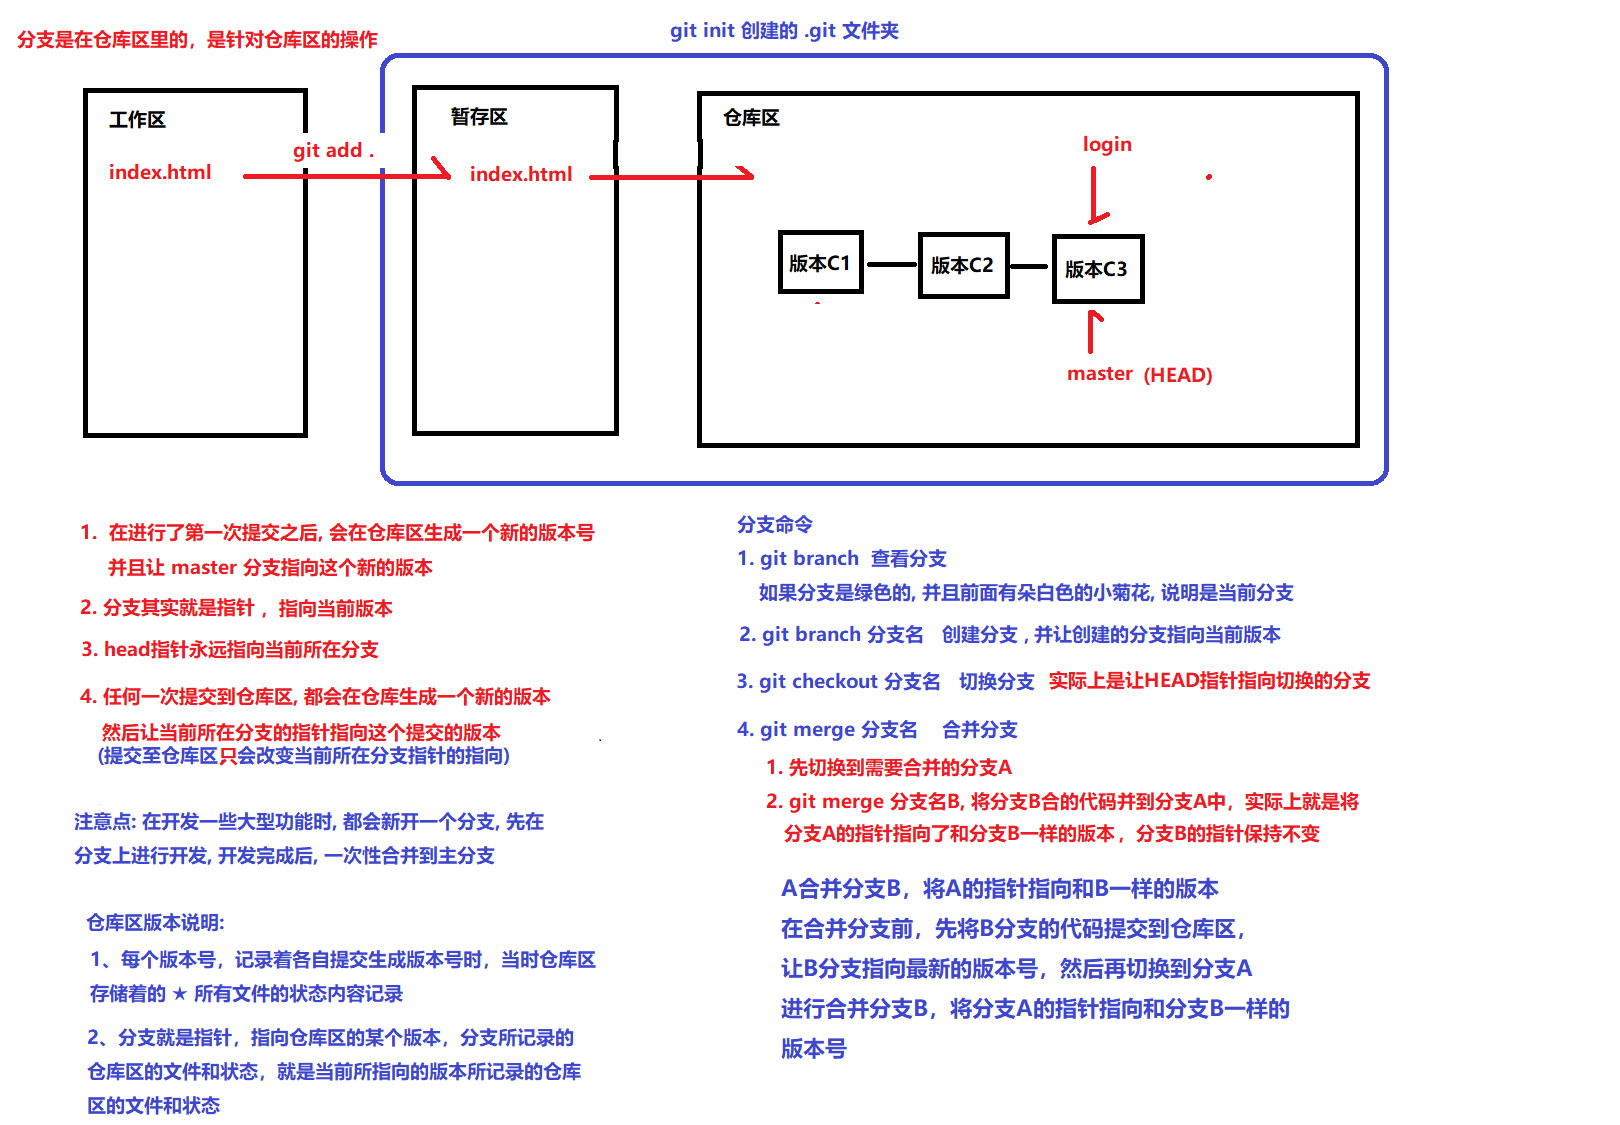
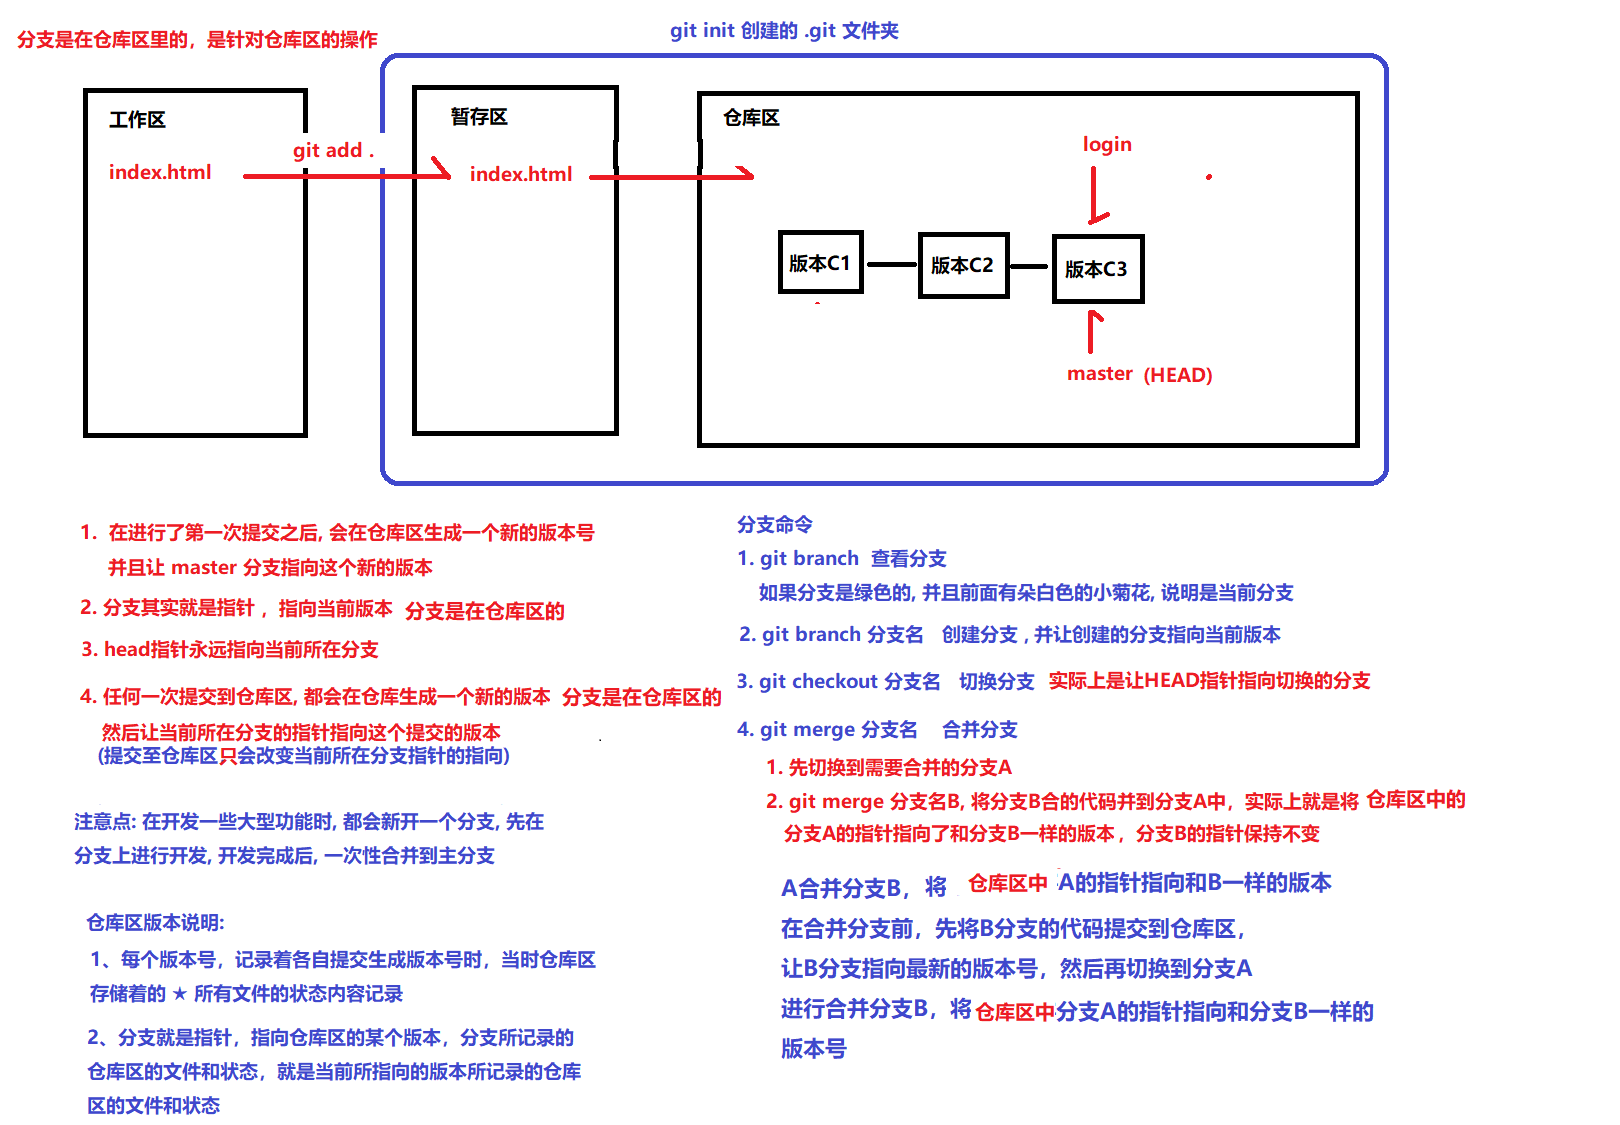
0313-02

diff --git a/03-JavaScript高级/day03/04-上课代码/07-js是单线程和js的事件轮询机制.html b/03-JavaScript高级/day03/04-上课代码/07-js是单线程和js的事件轮询机制.html
@@ -15,7 +15,7 @@
 //  栈: 用于存储基本数据类型, 存储变量, 所有的代码都会进入到栈里面执行.引用数据类型的地址是16进制的数字,所以也存储在栈中  栈是有大小限制的
 //  栈存储数据是有大小限制的 而基本数据类型也是有大小限制的 所以存在栈里
 //  堆: 用于存储引用数据类型 堆存储数据没用大小限制 而引用数据类型也不知道最大是多少 所以存在堆里
-//  JS声明的变量函数等数据, 以及后续对变量等数据进行赋值或其他操作, 数据会一直存储在浏览器内存中, 存储在栈或者堆中 保持数据 出栈后也会存储在内存中, 保持数据 只有在每次刷新页面, 或重新请求该页面, 内存重新加载时, 数据才会丢失, js重新执行, 才会重新加载 也就是重置变量, 重置数据
+//  JS声明的变量和函数等数据, 以及后续对变量等数据进行赋值或其他操作, 数据会一直存储在浏览器内存中, 存储在栈或者堆中 保持数据 出栈后也会存储在内存中, 保持数据 只有在每次刷新页面, 或重新请求该页面, 内存重新加载时, 数据才会丢失, js重新执行, 才会重新加载 也就是重置变量, 重置数据
 //  ★★★ 每次请求一个页面, 或页面跳转, 地址栏跳转等, 内存都会清空, 都会加载/重新加载请求的这个页面, 即重新解析渲染这个页面的html, css, 以及重新执行这个页面的js代码
 
 //
@@ -28,9 +28,10 @@
   // 浏览器对页面的解析和执行的顺序是从上往下解析和执行的, 包括html, css, js等其他.
   // 1. dom树,规则树,以及渲染树,都是加载存储在内存中的
   // 2. js对dom树, css规则树以及渲染树的操作,比如改变dom树htm结构,或者改变dom树上dom元素(标签节点)的样式或html结构等所其他操作都会保存在内存中, 除非页面重新加载(刷新页面或跳转页面)
-  // 3. js中声明的变量，函数,以及其他所有数据,都是存储在内存中的，对数据的操作,比如赋值等所有其他操
+  // 3、js中所有声明的数据(变量, 5基本, 3复杂等所有数据), 都可以一次声明, 多次使用的
+  // 4. js中声明的变量，函数,以及其他所有数据,都是存储在内存中的，对数据的操作,比如赋值等所有其他操
   // 作，都会保存在内存中,除页面重新加载(刷新页面或跳转页面)
-  // 4、js中,所有访问/使用/操作/获取性等所有操作,获取的都是访问/使用/操作/获取当前执行获取性操作这段代码时，内存中此刻保存的对应的要获取的那个数据的值
+  // 5、js中,所有访问/使用/操作/获取性等所有操作,获取的都是访问/使用/操作/获取当前执行获取性操作这段代码时，内存中此刻保存的对应的要获取的那个数据的值
   //
   // js中，改改在dom树上的标签节点，即改变在dom树上dom元素的样式渲染模式,及html结构或其他所有等,只要影响页面的布局排列渲染或元素(标签)的渲染，都会触发对应的回流和重绘
   // 对于隐藏的元素display: none,不会被渲染到页面上,所以修改隐藏的元素,不会触发重绘和回流，除非隐藏的元素显示了,就会触发重绘和回流

diff --git a/06-Ajax/day03/04-demo/03-模板引擎初体验.html b/06-Ajax/day03/04-demo/03-模板引擎初体验.html
@@ -26,7 +26,7 @@
   <!-- 可以先写模板, 再引包, 没有顺序要求 -->
   <!-- 模板不会被当成js, 浏览器不会解析和执行模板 -->
   <!-- 浏览器也不会将模板的内容渲染到页面上 -->
-  <!-- 模板中的写法和html标签类似, 在模板中, 只有{{}}里的内容最后会被 解析 和 执行, {{}}外的内容, 最后会被原文输出到模板返回的字符串中 -->
+  <!-- 模板中的写法和html标签类似, 在模板中, 只有{{}}里的内容最后会被 解析 和 执行, {{}}外的内容, 最后都会被原文输出到模板返回的html字符串中 -->
   <!-- 在模板中{{}}里, {{}}里的内容会被解析和执行, 并将{{}}里解析执行的最终结果输出到模板返回的字符串中:
         包含以下1>, 2>, 3>, 4>, 5>
         1> 在模板中的任意地方, 只要在{{}}内就可以直接通过数据对象中的属性名访问数据对象中的属性值, 还可以同时写其他内容, 比如js基本语法 {{ name + '你好' }}
@@ -70,7 +70,7 @@
     //          但是对象的属性没有要求, 可以是任意类型
     //          如果数据是数组, 可以将数组包装到数据对象的一个属性中去, 这样在模板中也能获取和使用数组
     //    ★ template方法做了什么?
-    //        执行template方法, 会对模板进行解析, 只要是{{}}里的内容(双括号在双引号里, 也会被解析和执行), 就会被解析和执行, {{}}外的内容, 则原文输出到返回的字符串中, 包括单引号, 双引号, 都会原文输出
+    //        执行template方法, 会对模板进行解析, 只要是{{}}里的内容(双括号在双引号里, {{}}也会被解析和执行), 就会被解析和执行, {{}}外的内容, 则原文输出到返回的字符串中, 包括单引号, 双引号, 都会原文输出
     //        ★ 最后返回一个的 html 字符串
 
     //    ps: 模板和数据相结合, 一个模板可以被template调用多次, 每次根据传入的数据对象进行解析, 最后返回一个html字符串

diff --git a/01-JavaScript基础/day01/02-代码/day01-code/01.js.html b/01-JavaScript基础/day01/02-代码/day01-code/01.js.html
@@ -24,9 +24,8 @@ js中, 后面只要没有说是异步的, 则都是同步执行的, 即要等到
     浏览器对页面的解析和执行的顺序是从上往下解析和执行的, 包括html, css, js等其他.
 1. dom树,规则树,以及渲染树,都是加载存储在内存中的
 2. js对dom树, css规则树以及渲染树的操作,比如改变dom树htm结构,或者改变dom树上dom元素(标签节点)的样式或html结构等所其他操作都会保存在内存中, 除非页面重新加载(刷新页面或跳转页面)
-3. js中声明的变量，函数,以及其他所有数据,都是存储在内存中的，对数据的操作,比如赋值等所有其他操
-作，都会保存在内存中,除页面重新加载(刷新页面或跳转页面)
-4、js中,所有访问/使用/操作/获取性等所有操作,获取的都是访问/使用/操作/获取当前执行获取性操作这段代码时，内存中此刻保存的对应的要获取的那个数据的值
-
+3、js中所有声明的数据(变量, 5基本, 3复杂等所有数据), 都可以一次声明, 多次使用的
+4. js中声明的变量，函数,以及其他所有数据,都是存储在内存中的，对数据的操作,比如赋值等所有其他操作，都会保存在内存中,除页面重新加载(刷新页面或跳转页面)
+5、js中,所有访问/使用/操作/获取性等所有操作,获取的都是访问/使用/操作/获取当前执行获取性操作这段代码时，内存中此刻保存的对应的要获取的那个数据的值
 js中，改改在dom树上的标签节点，即改变在dom树上dom元素的样式渲染模式,及html结构或其他所有等,只要影响页面的布局排列渲染或元素(标签)的渲染，都会触发对应的回流和重绘
 对于隐藏的元素display: none,不会被渲染到页面上,所以修改隐藏的元素,不会触发重绘和回流，除非隐藏的元素显示了,就会触发重绘和回流

diff --git a/02-WebAPIs编程/补充-重绘回流-面试题.html b/02-WebAPIs编程/补充-重绘回流-面试题.html
@@ -108,9 +108,10 @@
 		// 浏览器对页面的解析和执行的顺序是从上往下解析和执行的, 包括html, css, js等其他
 		// 1. dom树,规则树,以及渲染树,都是加载存储在内存中的
 		// 2. js对dom树, css规则树以及渲染树的操作,比如改变dom树htm结构,或者改变dom树上dom元素(标签节点)的样式或html结构等所其他操作都会保存在内存中, 除非页面重新加载(刷新页面或跳转页面)
-		// 3. js中声明的变量，函数,以及其他所有数据,都是存储在内存中的，对数据的操作,比如赋值等所有其他操
+		// 3、js中所有声明的数据(变量, 5基本, 3复杂等所有数据), 都可以一次声明, 多次使用的
+		// 4. js中声明的变量，函数,以及其他所有数据,都是存储在内存中的，对数据的操作,比如赋值等所有其他操
 		// 作，都会保存在内存中,除页面重新加载(刷新页面或跳转页面)
-		// 4、js中,所有访问/使用/操作/获取性等所有操作,获取的都是访问/使用/操作/获取当前执行获取性操作这段代码时，内存中此刻保存的对应的要获取的那个数据的值
+		// 5、js中,所有访问/使用/操作/获取性等所有操作,获取的都是访问/使用/操作/获取当前执行获取性操作这段代码时，内存中此刻保存的对应的要获取的那个数据的值
 		//
 		// js中，改改在dom树上的标签节点，即改变在dom树上dom元素的样式渲染模式,及html结构或其他所有等,只要影响页面的布局排列渲染或元素(标签)的渲染，都会触发对应的回流和重绘
 		// 对于隐藏的元素display: none,不会被渲染到页面上,所以修改隐藏的元素,不会触发重绘和回流，除非隐藏的元素显示了,就会触发重绘和回流

diff --git a/02-WebAPIs编程/day03/04-上课代码/03-DOM树.html b/02-WebAPIs编程/day03/04-上课代码/03-DOM树.html
@@ -39,9 +39,10 @@
 // 浏览器对页面的解析和执行的顺序是从上往下解析和执行的, 包括html, css, js等其他.
 // 1. dom树,规则树,以及渲染树,都是加载存储在内存中的
 // 2. js对dom树, css规则树以及渲染树的操作,比如改变dom树htm结构,或者改变dom树上dom元素(标签节点)的样式或html结构等所其他操作都会保存在内存中, 除非页面重新加载(刷新页面或跳转页面)
-// 3. js中声明的变量，函数,以及其他所有数据,都是存储在内存中的，对数据的操作,比如赋值等所有其他操
+// 3、js中所有声明的数据(变量, 5基本, 3复杂等所有数据), 都可以一次声明, 多次使用的
+// 4. js中声明的变量，函数,以及其他所有数据,都是存储在内存中的，对数据的操作,比如赋值等所有其他操
 // 作，都会保存在内存中,除页面重新加载(刷新页面或跳转页面)
-// 4、js中,所有访问/使用/操作/获取性等所有操作,获取的都是访问/使用/操作/获取当前执行获取性操作这段代码时，内存中此刻保存的对应的要获取的那个数据的值
+// 5、js中,所有访问/使用/操作/获取性等所有操作,获取的都是访问/使用/操作/获取当前执行获取性操作这段代码时，内存中此刻保存的对应的要获取的那个数据的值
 //
 // js中，改改在dom树上的标签节点，即改变在dom树上dom元素的样式渲染模式,及html结构或其他所有等,只要影响页面的布局排列渲染或元素(标签)的渲染，都会触发对应的回流和重绘
 // 对于隐藏的元素display: none,不会被渲染到页面上,所以修改隐藏的元素,不会触发重绘和回流，除非隐藏的元素显示了,就会触发重绘和回流

diff --git a/02-WebAPIs编程/day01/04-上课代码/03-事件.html b/02-WebAPIs编程/day01/04-上课代码/03-事件.html
@@ -39,7 +39,7 @@
 //    注意: 事件处理函数,相当于函数的声明,JS遇到时不会解析和执行里面的函数体中的代码,而是直接跳过,等到事件被触发的时候,才会调用函数,才会去具体解析和执行函数体,函数体中各个变量的值以解析函数体的时候为准,即以事件触发时/函数调用时/执行函数体时 为准
 //    注意: 伪数组不能注册事件,元素才可以注册事件,需要把伪数组中的元素 一个个拿出来 才可以注册事件
 //    注意: 事件处理函数中的this: this是一个元素, dom元素,解析this: 当前执行的事件处理函数是哪个元素注册的,this就是这个元素;若多个元素注册同一个事件处理函数,可以使用this将他们区分开来
-//    注意: 所以如果多个元素绑定同一个事件处理函数,在执行事件处理函数的时候,this代表的是当前触发事件的那个元素,即每个元素执行事件函数时的this都是不同的,这样可以将每个元素给区分开来.
+//    注意: 所以如果多个元素绑定同一个事件处理函数,在调用执行事件处理函数的时候, 解析和执行的时候, this会被解析成注册 (当前执行的事件处理函数)的那个dom元素,即每个元素执行事件函数时的this都是不同的,这样可以将每个元素给区分开来.
 //    注意: 1个元素可以同时注册多种类型的事件 : 事件名相同,就是同类型事件; 事件名不同,就是不同类型事件
 //    注意: 一个事件可以被触发多次, 每次触发都会调用执行事件处理函数,执行事件处理函数的函数体,拿到的数据都是最新的
 

diff --git a/01-JavaScript基础/day01/02-代码/day01-code/18-一元运算符.html b/01-JavaScript基础/day01/02-代码/day01-code/18-一元运算符.html
@@ -10,41 +10,42 @@
     <script>
 
       // 一元运算符  一个操作数的运算符
-      // 自增 + 自减  
+      // 自增 + 自减
       // ++
       // 自增 :
       // num++;
       // ++num;
       // 异同
-      // 相同点 : 执行完代码,数字都会 + 1 
+      // 相同点 : 执行完代码,数字都会 + 1
       // 不同点 : 正在执行代码的时候,使用了,就会有差别
       // num++ : 先用,再加1
       // ++num : 先加1, 再使用
-      
+
       // 不同点 : 正在执行代码的时候,使用了,就会有差别
+      // 只是在一条语句里使用时有差别, 一元运算符也是同步执行的
       var num = 10;
       console.log( num++ ); //10, 先用,再加1 => 打印10 执行完之后num = num + 1 => num = 11;
-      console.log( ++num ); //12, 先加1,再用 => 打印12 执行前num = num + 1 => num = 12,然后再打印 => 12 
-      
+      console.log( ++num ); //12, 先加1,再用 => 打印12 执行前num = num + 1 => num = 12,然后再打印 => 12
+
       // console.log(num);
-      
+
       // console.log( ++num );
-      
-      // 相同点 : 执行完代码,数字都会 + 1 
+
+      // 相同点 : 执行完代码,数字都会 + 1
       var xx = 10,yy = 10;
       xx++;
       ++yy;
       console.log(xx); //11
       console.log(yy); //11
-      
+
 
 
     //  var num =  20;
     // //  num++; // num += 1 => num = num + 1
     //  ++num;
     //  console.log(num);
-     
-      
+
+
 
 
 

diff --git a/04-jQuery快速开发/day03/04-代码/12.jq的事件发展历程.html b/04-jQuery快速开发/day03/04-代码/12.jq的事件发展历程.html
@@ -39,7 +39,7 @@
                 // 2 使用jq注册事件, 会把jq对象里的所有元素都注册相同的事件
                 // 3 使用jq注册事件, 事件处理函数中的this, 与WEBAPI中一样, 当前执行的事件处理函数是哪个元素注册的, this就指向这个元素, ★ this是dom元素
                 //   ps: 会把jq对象里的所有元素都注册相同的事件和事件处理函数, 本质上底层还是通过遍历jq对象中的dom, 给每个dom单独注册事件,
-                //        所以看似是批量注册, 实际上还是单个单个注册的, 所以事件处理函数中的this就是指向每个注册事件的dom元素, 所以事件处理函数中的可以把每个元素区分开来
+                //        所以看似是批量注册, 实际上还是单个单个注册的, 所以事件处理函数中的this就是指向每个注册事件的dom元素,  所以事件处理函数中的可以把每个元素区分开来 在调用执行事件处理函数的时候, 解析执行的时候, this会被解析成注册 (当前执行的事件处理函数) 的那个dom元素,
                 // 4 只要事件绑定代码执行后, jq对象中的元素就注册上了事件
                 // 5 jq中注册事件, 不需要再加on了
                 // 6 jq注册事件的事件处理函数也是匿名函数, 是函数 (引用地址)

diff --git a/01-JavaScript基础/day04/02-代码/day04-code/04-函数的声明与调用.html b/01-JavaScript基础/day04/02-代码/day04-code/04-函数的声明与调用.html
@@ -42,6 +42,7 @@
     // ★★★ 调用函数时候, 函数体中访问/查找/使用/操作/赋值变量, 先在自身函数作用域内查找, 若找到直接使用, 且停止查找, 若没找到, 则从函数的 ★★★声明所在处 开始, 沿着作用域链往上级链查找, 找到就使用, 且停止查找, 后面同词法作用域2.3.4点！！
     // 需要调用它,才能执行函数体中的代码 (即调用函数,才会执行函数体中的代码), 每次调用, 执行一次函数体, 且调用函数是同步执行的, 要等到函数调用结束, 才会继续往下执行函数调用处之后的代码
     // 函数可以多次调用 (一次声明,多次调用),每次调用都会执行函数体,拿到的数据都当前内存里的数据值, 是最新的
+    // 函数一次声明, 可以多次使用
     // ★★★ 函数调用后不会消失 还会存在内存里 函数里的变量也不会消失 也会存在内存里 保持数据  一次声明 多次调用 但是每次调用函数体的代码都会执行一次
     // 函数如果不调用,,将毫无意义
     // 函数调用,执行完函数体后,函数和函数中的变量和数据不会消失,会继续存储在函数对应内存中, 多次调用函数, 对于相同作用域内声明同名的变量,后声明的变量会把之前声明的变量覆盖

diff --git a/01-JavaScript基础/day05/02-代码/day05-code/06-匿名函数.html b/01-JavaScript基础/day05/02-代码/day05-code/06-匿名函数.html
@@ -84,7 +84,7 @@
     //    5. 只要是函数, 或函数的引用地址的, 都可以加()调用对应地址里的函数, 执行其函数体中的代码
     //    6. 直接通过函数名()调用的, 会现在当前作用域查找函数, 若找到则直接调用, 停止查找, 否则会沿着作用域链往上级链找, 找到函数, 再调用, .. 后面同词法作用域2.3.4点！！
     //    7. 只要是匿名函数, 都支持外提, 外提后, 可以共用. 用方式1外提. 如function fn(参数..) {}, 可以使用fn 来代替原匿名函数. 因为fn的值一个函数的地址, 而原来的匿名函数也是返回一个函数的地址.
-    //    8. 函数只需要一次声明, 就可以多次调用.
+    //    8. 函数只需要一次声明, 就可以多次调用.  多次使用
     //    9. 不管是何处, 只要调用函数, 就会执行其函数体中的代码,
     //       函数体中查找/访问/使用/操作/赋值变量的规则: 先在函数体中查找, 若找到则直接使用, 并停止查找, 如果没有找到, 再从函数的 ★★★声明所在处, 沿着作用域链往上级链找, 找到就使用, 且停止查找, 后面同词法作用域2.3.4点
     //    9. 只有函数才可以 加 () 调用

diff --git a/12-电商全端/front/js/searchList2.js b/12-电商全端/front/js/searchList2.js
@@ -71,7 +71,7 @@ $(function() {
             var htmlStr = template("productTpl", info );
             $('.lt_product').html( htmlStr );
 
-            // ajax 回来之后, 需要结束下拉刷新, 让内容回滚顶部
+            // ajax 回来之后, 需要结束下拉刷新, 让内容回滚顶部, 才能触发下一次下拉刷洗
             // 注意: api 做了更新, mui文档上还没更新上(小坑)
             //      要使用原型上的 endPulldownToRefresh 方法来结束 下拉刷新
             mui('.mui-scroll-wrapper').pullRefresh().endPulldownToRefresh();
